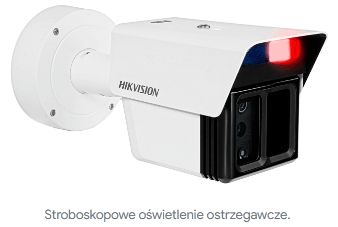
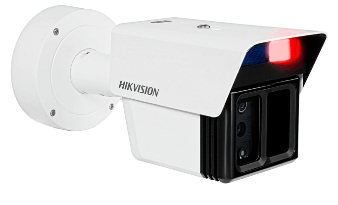
Add files via upload

diff --git a/index.html b/index.html
@@ -149,7 +149,14 @@
                 <div class="row mt-5 justify-content-start">
                     <div class="col-12 col-md-4 mx-3">
                         <h5>Przykład:</h5>
-                        <a href="figcaption-przyklad.jpg" class=""><img src="figcaption-przyklad.jpg" alt="" class="img-fluid img-zoom-1"></a>
+                        <figure>
+                            <a href="figcaption-przyklad.jpg">
+                                <img src="figcaption-przyklad.jpg" alt="Zasada działania Hikvision Motion Detection 2.0" loading="lazy" class="img-fluid lazy img-zoom-1" width="574" height="317">
+                            </a>
+                            <figcaption class="small mt-2 text-center text-secondary">
+                                Stroboskopowe światło ostrzegawcze.
+                            </figcaption>
+                        </figure>
                     </div>
                     <div class="col-12 col-md-7">
                         <div class="section-label">Gotowy kod HTML</div>
